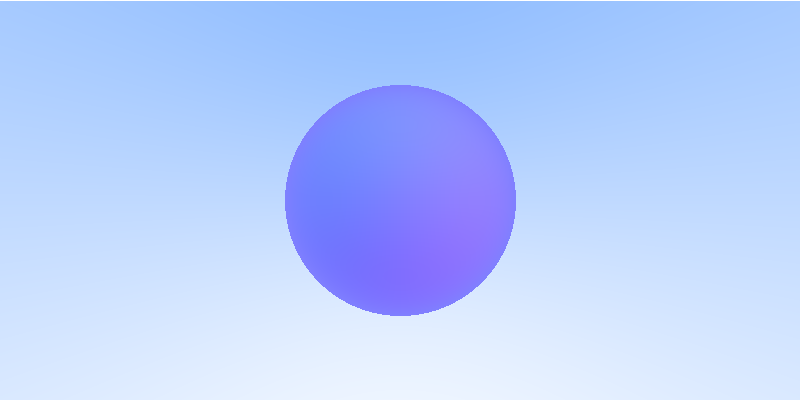
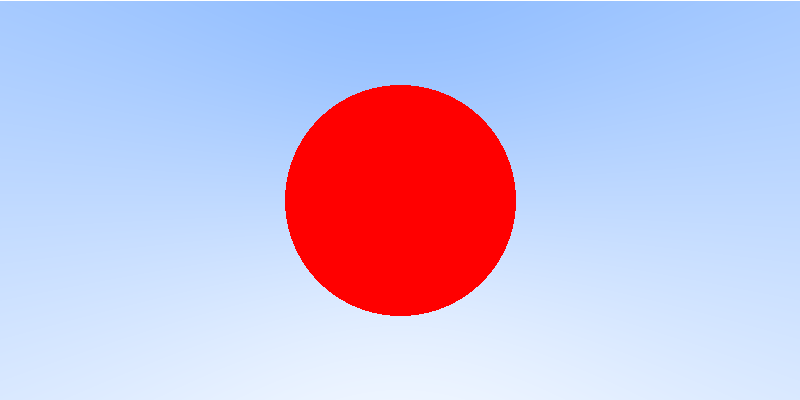
Red sphere

Changed region(s): [[0.3438, 0.21, 0.6562, 0.81]]

diff --git a/main.go b/main.go
@@ -17,12 +17,10 @@ func main() {
 	rect := image.Rect(width, height, 0, 0)
 	img := image.NewRGBA(rect)
 
-	world := newSphere(newVec3(0, 0, -1), 0.5)
-
-	// world := hittables{
-	// 	newSphere(newVec3(0, 0, -1), 0.5),
-	// 	newSphere(newVec3(0, -100.5, -1), 100),
-	// }
+	world := hittables{
+		newSphere(newVec3(0, 0, -1), 0.5),
+		// newSphere(newVec3(0, -100.5, -1), 100),
+	}
 
 	cam := newCamera()
 
@@ -30,8 +28,9 @@ func main() {
 		t := world.hit(r)
 
 		if t > 0 {
-			N := r.pointAt(t).Subtract(newVec3(0, 0, -1)).Unit()
-			return newVec3(N.X+1, N.Y+1, N.Z+1).Multiply(0.5)
+			return newVec3(1, 0, 0)
+			// N := r.pointAt(t).Subtract(newVec3(0, 0, -1)).Unit()
+			// return newVec3(N.X+1, N.Y+1, N.Z+1).Multiply(0.5)
 		}
 
 		unitDirection := r.direction().Unit()

diff --git a/hittable.go b/hittable.go
@@ -9,7 +9,6 @@ type hittables []hittable
 func (hs hittables) hit(r ray) float32 {
 	for _, h := range hs {
 		if t := h.hit(r); t >= 0.0 {
-			println("HIT")
 			return t
 		}
 	}
